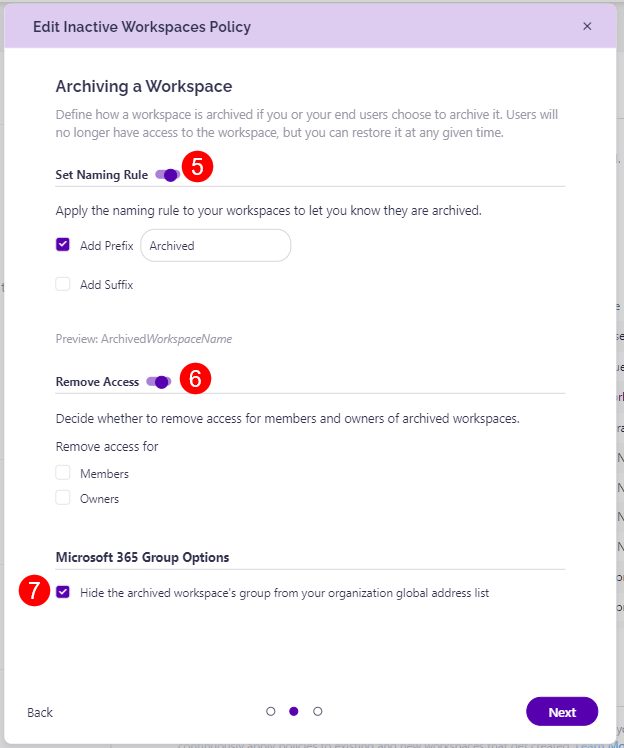
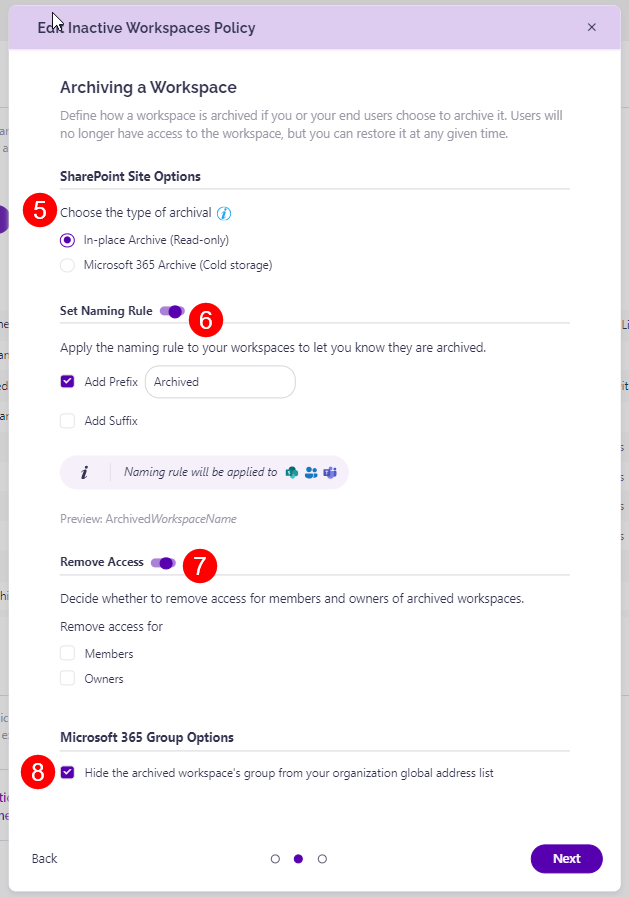
update

diff --git a/governance-and-automation/automated-workflows/inactive-workspaces-admin.md b/governance-and-automation/automated-workflows/inactive-workspaces-admin.md
@@ -21,32 +21,38 @@ The **Edit Policy** dialog opens where you can:
 * **Select the severity level (2)** for the policy
 * **Select the time period (3)** after which the workspaces are marked as inactive
 * **Select the time period (4)** for how long a workspace can be **Kept**
-* **Enable Set Naming Rule (5)** by clicking the toggle next to it
+* **Choose the type of archival (5)**: 
+  * In-Place Archival (Read-Only) - choosing this archives the site through Syskit Point, and places it into a read-only state
+    * If a read-only site is restored you are not additionally charged. 
+  * Microsoft 365 Archive (Cold storage) - choosing this archives the site through Microsoft 365 Archive and places it into a storage tier for archived sites
+    * If a cold storage site is restored, you are charged at a per-GB rate by Microsoft 365 
+  * For more details about this, [take a look at the SharePoint Site Archive Options article](#sharepoint-site-archival-options).
+* **Enable Set Naming Rule (6)** by clicking the toggle next to it
     * This lets you **apply the naming rule to your workspaces** to let you know they are archived
     * You can select to:
         * Add Prefix
         * Add Suffix
-* **Enable Remove Access (6)** by clicking the toggle next to it
+* **Enable Remove Access (7)** by clicking the toggle next to it
     * Selecting this removes access for members and owners of archived workspaces   
     * You can choose to remove access for:
         * Members
         * Owners
-* **Select to hide the archived workspace's group (7)** from your organization's global address list
-* **Enable Task Delegation (8)** by clicking the toggle next to it
-    * **Select the actions that owners can perform when they receive a task (9)**:
+* **Select to hide the archived workspace's group (8)** from your organization's global address list
+* **Enable Task Delegation (9)** by clicking the toggle next to it
+    * **Select the actions that owners can perform when they receive a task (10)**:
         * **Keep**
             * This action is visible by default, and if the workspace is kept, it won't be marked as inactive for the period defined in the first step
         * **Archive**
             * If this action is selected and the workspace is archived, it can still be restored later
         * **Delete**
             * If this action is selected, and a workspace is deleted, it can be restored from the recycle bin within 93 days, after which it is deleted for good
-    * **Enter the number of total work days reviewers have to complete the task (10)**:
-        * **Click the checkbox if you want a reminder sent (11)** 3 work days before the due date 
-        * **Select what Syskit Point should do if owners do not resolve this task until due date (12)**:
+    * **Enter the number of total work days reviewers have to complete the task (11)**:
+        * **Click the checkbox if you want a reminder sent (12)** 3 work days before the due date 
+        * **Select what Syskit Point should do if owners do not resolve this task until due date (13)**:
             * Perform no action
             * Automatically Archive
             * Automatically Delete
-* Click **Finish (13)** once you are done with the policy configuration   
+* Click **Finish (14)** once you are done with the policy configuration   
 
 ![Edit Policy Dialog - Step 1](../../.gitbook/assets/inactive-workspaces-admin-edit-step-1.png)
 
@@ -58,18 +64,29 @@ The **Edit Policy** dialog opens where you can:
 
 For details on how collaborators can [**resolve Inactive Workspaces tasks**, navigate to the following article](../../point-collaborators/resolve-governance-tasks/inactive-workspaces.md).
 
-{% hint style="information" %}
-If a **SharePoint site has been archived through the Microsoft 365 Archive** option, it is **not flagged** as an Inactive Workspace. 
 
-When a **SharePoint site is archived with Microsoft 365 Archive, it cannot be restored through Syskit Point**. Only workspaces archived through Syskit Point can be restored in Syskit Point. 
 
-Here's how the Archive action works for Microsoft 365 and Syskit Point:
+## SharePoint Site Archival Options
+
+With the introduction of the Microsoft 365 Archive option, there are some key differences you should keep in mind when choosing how to archive a workspace.
+
+Here's a few things you should keep in mind when it comes to the archive feature both in Microsoft 365 and Syskit Point:
 
 * **Microsoft 365 Archive** allows site-level archiving of SharePoint sites. When a site is archived, it is moved into a storage tier designated for archived sites, pausing active user access but retaining compliance settings.
-* When **Syskit Point archives workspaces**, access to the workspace is removed for members and/or owners, permission inheritance is restored on all objects, all memberships on the workspace are removed in Microsoft 365 but saved in the Syskit Point database to support the restore action. 
+
+* **Microsoft 365 Archive** [charges site reactivation at a per-GB rate](https://learn.microsoft.com/en-us/microsoft-365/archive/archive-pricing?view=o365-worldwide).
+
+* When **Syskit Point archives workspaces**, the workspace is put into a **read-only state**, access to the workspace is removed for members and/or owners, permission inheritance is restored on all objects, all memberships on the workspace are removed in Microsoft 365 but saved in the Syskit Point database to support the restore action. 
+
+* **Restoring a read-only workspace** that was archived through Syskit Point **does not create any additional costs**. 
+
+* If a **SharePoint site has already been archived through the Microsoft 365 Archive** option, it is **not flagged** as an Inactive Workspace. 
+
+* If an **Inactive Workspaces task was created and the site was then archived** through Microsoft 365 Archive, the **task is automatically resolved**. 
 
 [To learn more about Microsoft 365 Archive and how to utilize it, take a look at their article.](https://learn.microsoft.com/en-us/microsoft-365/archive/archive-overview?view=o365-worldwide).
 {% endhint %}
+
 
 ## Detection for Inactive Workspaces
 
